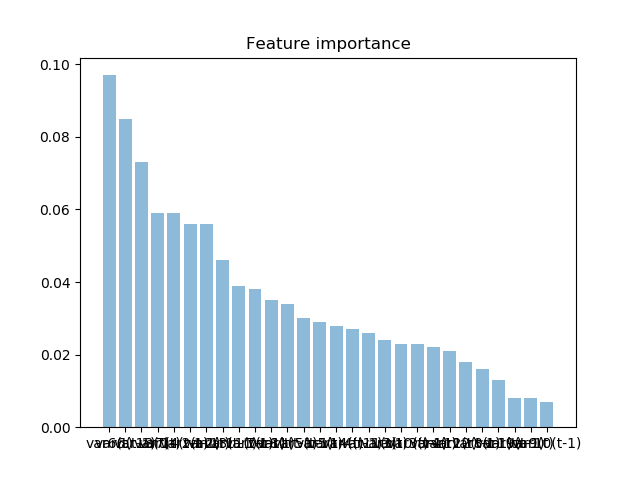
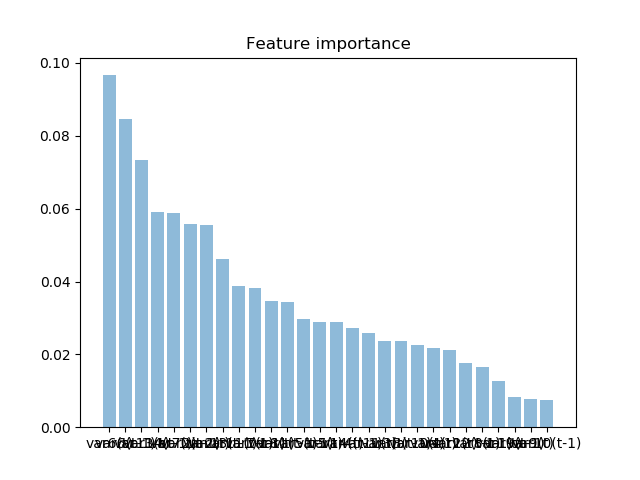
Further rankings/tests added

diff --git a/src/Gabriel/Classification/RandomForestClassification.py b/src/Gabriel/Classification/RandomForestClassification.py
@@ -81,30 +81,37 @@ df_pruned_shifted_Y = df_pruned_shifted['var15(t)']
 df_pruned_shifted_X = df_pruned_shifted.drop('var15(t)', 1)
 #
 # Drop unwanted variables which decrease accuracy of overall prediction (as generated from RFC)
-#df_pruned_shifted_X = df_pruned_shifted_X.drop('var9(t)', 1)
+df_pruned_shifted_X = df_pruned_shifted_X.drop('var9(t)', 1)
 #
 X_train, X_test, y_train, y_test = train_test_split(df_pruned_shifted_X, df_pruned_shifted_Y, test_size=0.2, random_state=0)
 #
 # Normalize shifted_df_X
-from sklearn.preprocessing import normalize
-X_train = normalize(X_train, norm='l2')
-X_test = normalize(X_test, norm='l2')
-#
-# using a grid search to find optimum hyper parameter
-from sklearn.ensemble import RandomForestClassifier
-from sklearn.model_selection import GridSearchCV
-parameters = {'n_estimators': (8000,10000, 12000),  'n_jobs':[4]}
-svc = RandomForestClassifier()
-clf = GridSearchCV(svc, parameters, cv=2)
-print(clf)
-clf.fit(X_train,y_train)
-print(clf.best_params_)
+# from sklearn.preprocessing import normalize
+# X_train = normalize(X_train, norm='l1')
+# X_test = normalize(X_test, norm='l1')
 
-n_estimators = clf.best_params_['n_estimators']
+# # using a grid search to find optimum hyper parameter
+from sklearn.ensemble import RandomForestClassifier
+# from sklearn.model_selection import GridSearchCV
+# parameters = {'n_estimators': (8000,10000, 12000),  'n_jobs':[4]}
+# svc = RandomForestClassifier()
+# clf = GridSearchCV(svc, parameters, cv=2)
+# print(clf)
+# clf.fit(X_train,y_train)
+# print(clf.best_params_)
+#
+# n_estimators = clf.best_params_['n_estimators']
+# max_features = 'sqrt'
+# criterion = 'gini'
+# clf = RandomForestClassifier(n_estimators=n_estimators, max_features=max_features)
+# clf.fit(X_train, y_train)
+#
+n_estimators = 12000
 max_features = 'sqrt'
 criterion = 'gini'
-clf = RandomForestClassifier(n_estimators=n_estimators, max_features=max_features)
+clf = RandomForestClassifier(n_estimators=n_estimators, max_features=max_features, n_jobs=6)
 clf.fit(X_train, y_train)
+#
 print(clf)
 #
 # make predictions for test data and evaluate
@@ -113,6 +120,6 @@ pred_y = clf.predict(X_test)
 # Testing Classifier Accuracy
 from src.statistics.scoring_functions import Scoring_Functions
 sf = Scoring_Functions(y_pred=pred_y, y_true=y_test)
-print("SVM Accuracy: ")
+print("Random Forest Accuracy: ")
 print(sf.scoring_results())
 print('-------------------------')
